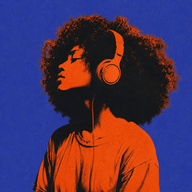
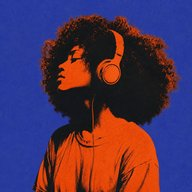
Add files via upload

diff --git a/index.html b/index.html
@@ -2227,8 +2227,9 @@ renderPL();renderRep();renderSongs(songs);
         ?songs.filter(s=>(s.playlist||'')===listFilter)
         :songs.filter(s=>!s.id.startsWith('__fav__'));
       const newBase=ids.map(id=>base.find(s=>s.id===id)).filter(Boolean);
-      const others=songs.filter(s=>!newBase.find(b=>b.id===s.id));
-      songs.length=0;songs.push(...others,...newBase);sv(SK,songs);
+      const others=songs.filter(s=>!newBase.find(b=>b.id===s.id)&&!base.find(b=>b.id===s.id));
+      songs.length=0;songs.push(...newBase,...others);sv(SK,songs);
+      if(listType==='rep') renderRep();
     }
   }
 
